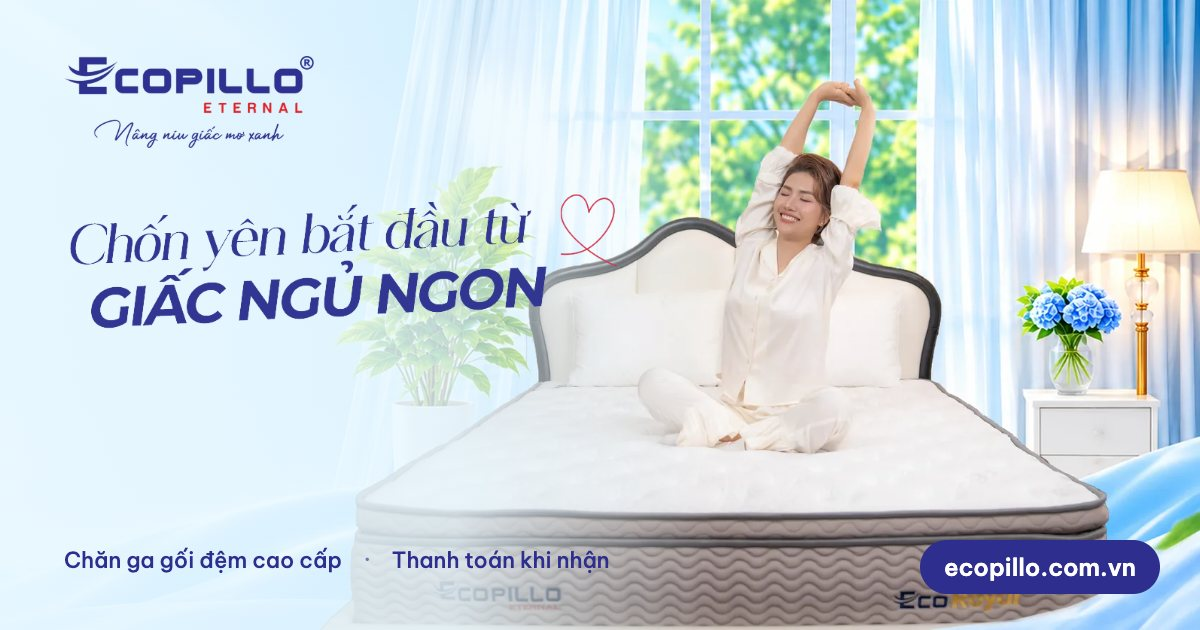
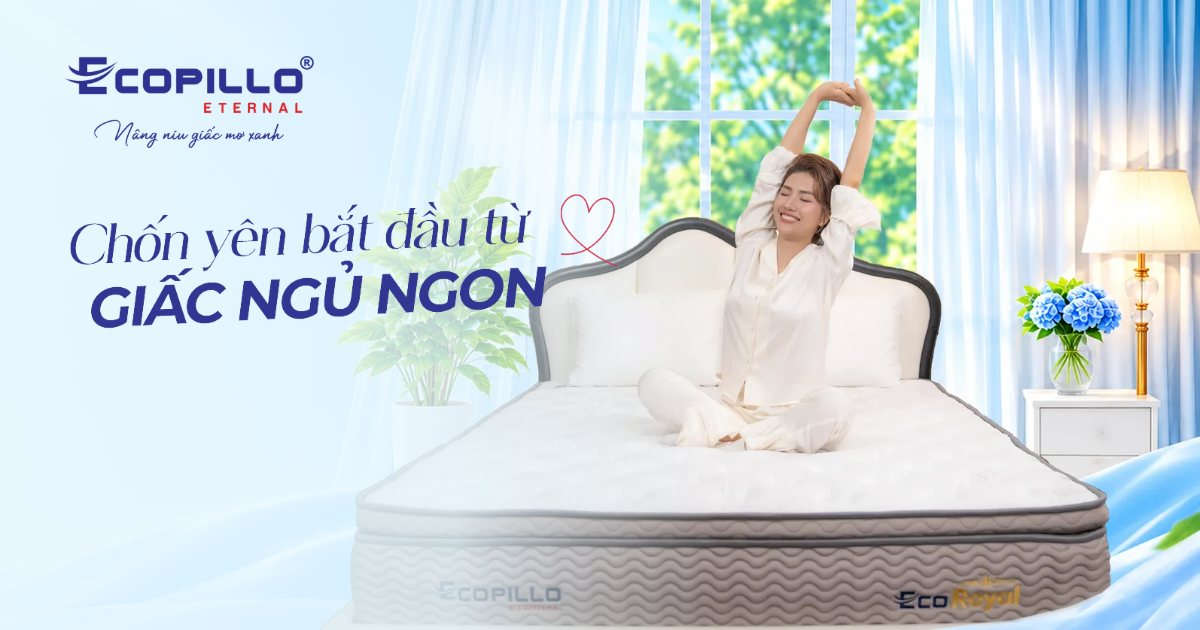
feat: ô chứng nhận ghi QCVN 01:2017/BCT, ảnh chia sẻ bỏ dòng cuối
Chị Phương 18/11: thay "TQC" bằng QCVN 01:2017/BCT trên dải cam kết trang chủ; ảnh đi kèm link bỏ dòng
"Chăn ga gối đệm cao cấp · Thanh toán khi nhận · ecopillo.com.vn" (og-image.jpg?v=2026111802).

Changed region(s): [[0.74, 0.8444, 0.9867, 0.9651], [0.0308, 0.8746, 0.5242, 0.9048]]

diff --git a/src/components/home/Craft.tsx b/src/components/home/Craft.tsx
@@ -9,7 +9,9 @@ import { Container, SectionHeading } from '../ui/primitives'
 const TRUST: readonly { icon: IconName; title: string; text: string }[] = [
   // Con số thương hiệu đặt ở đây; dòng "3 kháng vượt trội" ở đầu trang đã bỏ (chị Phương 17/11/2026: "ở dưới có rồi")
   { icon: 'award', title: '15+ năm trong nghề', text: 'Hơn 15.000 khách hàng tin dùng' },
-  { icon: 'certified', title: 'ISO 9001:2015\u00a0·\u00a0TQC', text: 'Quy trình sản xuất được chứng nhận' },
+  // Chị Phương 18/11/2026: "TQC" thay bằng quy chuẩn QCVN 01:2017/BCT. Cách sau "·" là dấu cách thường để ô hẹp xuống dòng ở đó,
+  // mỗi mã giữ liền một dòng (dấu cách không ngắt bên trong mã)
+  { icon: 'certified', title: 'ISO\u00a09001:2015\u00a0· QCVN\u00a001:2017/BCT', text: 'Quy trình sản xuất được chứng nhận' },
   { icon: 'stitch', title: 'Đường may 4 mũi/cm', text: 'Chắc, phẳng, bền qua nhiều lần giặt' },
   { icon: 'ruler', title: 'May theo kích thước', text: 'Vừa khít mọi chiếc giường' },
   { icon: 'truck', title: 'Kiểm hàng khi nhận', text: 'Được trải thử lên giường trước khi trả tiền' },

diff --git a/index.html b/index.html
@@ -22,7 +22,7 @@
       property="og:description"
       content="Chăn ga gối đệm Ecopillo mang giấc ngủ chất lượng cùng trải nghiệm tuyệt vời đến hàng triệu gia đình Việt một cách nhanh chóng và dễ dàng nhất."
     />
-    <meta property="og:image" content="https://ecopillo.com.vn/og-image.jpg?v=20261118" />
+    <meta property="og:image" content="https://ecopillo.com.vn/og-image.jpg?v=2026111802" />
     <meta property="og:image:width" content="1200" />
     <meta property="og:image:height" content="630" />
     <meta property="og:image:alt" content="Logo Ecopillo, câu Chốn yên bắt đầu từ giấc ngủ ngon và người ngồi trên đệm Ecopillo" />

diff --git a/tools/anh-chia-se-chung/khung.html b/tools/anh-chia-se-chung/khung.html
@@ -57,8 +57,7 @@
     <div class="anh"></div><div class="mo"></div>
     <img class="logo" src="../../public/images/brand/logo-ecopillo-720.webp" alt="">
     <img class="tieu-de" src="../../public/images/hero/chon-yen-tieu-de.webp" alt="">
-    <div class="chan"><span>Chăn ga gối đệm cao cấp</span><span>Thanh toán khi nhận</span></div>
-    <div class="web">ecopillo.com.vn</div>
+    <!-- Chị Phương 18/11/2026: bỏ dòng cuối (Chăn ga gối đệm cao cấp · Thanh toán khi nhận · ecopillo.com.vn); Zalo đã ghi tên miền dưới ảnh -->
   </div>
 
   <div class="khung b">
